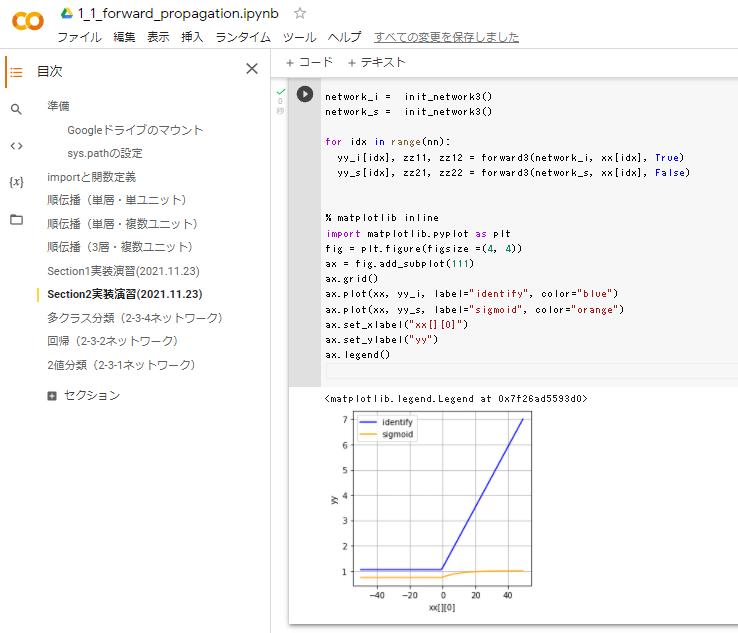
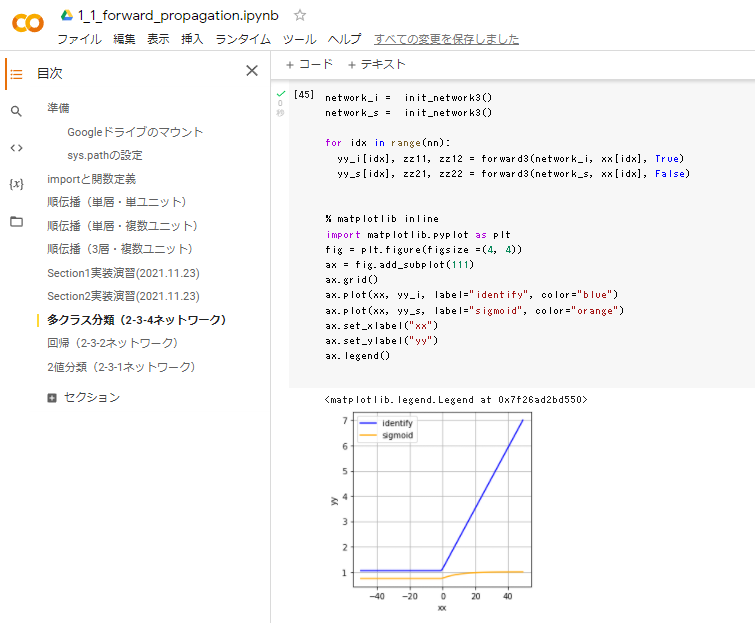
レポート作成（深層学習day1）

diff --git a/DeepLearningDay1/section2_report.md b/DeepLearningDay1/section2_report.md
@@ -111,7 +111,7 @@ ax = fig.add_subplot(111)
 ax.grid()
 ax.plot(xx, yy_i, label="identify", color="blue")
 ax.plot(xx, yy_s, label="sigmoid", color="orange")
-ax.set_xlabel("xx[][0]")
+ax.set_xlabel("xx")
 ax.set_ylabel("yy")
 ax.legend()
 
